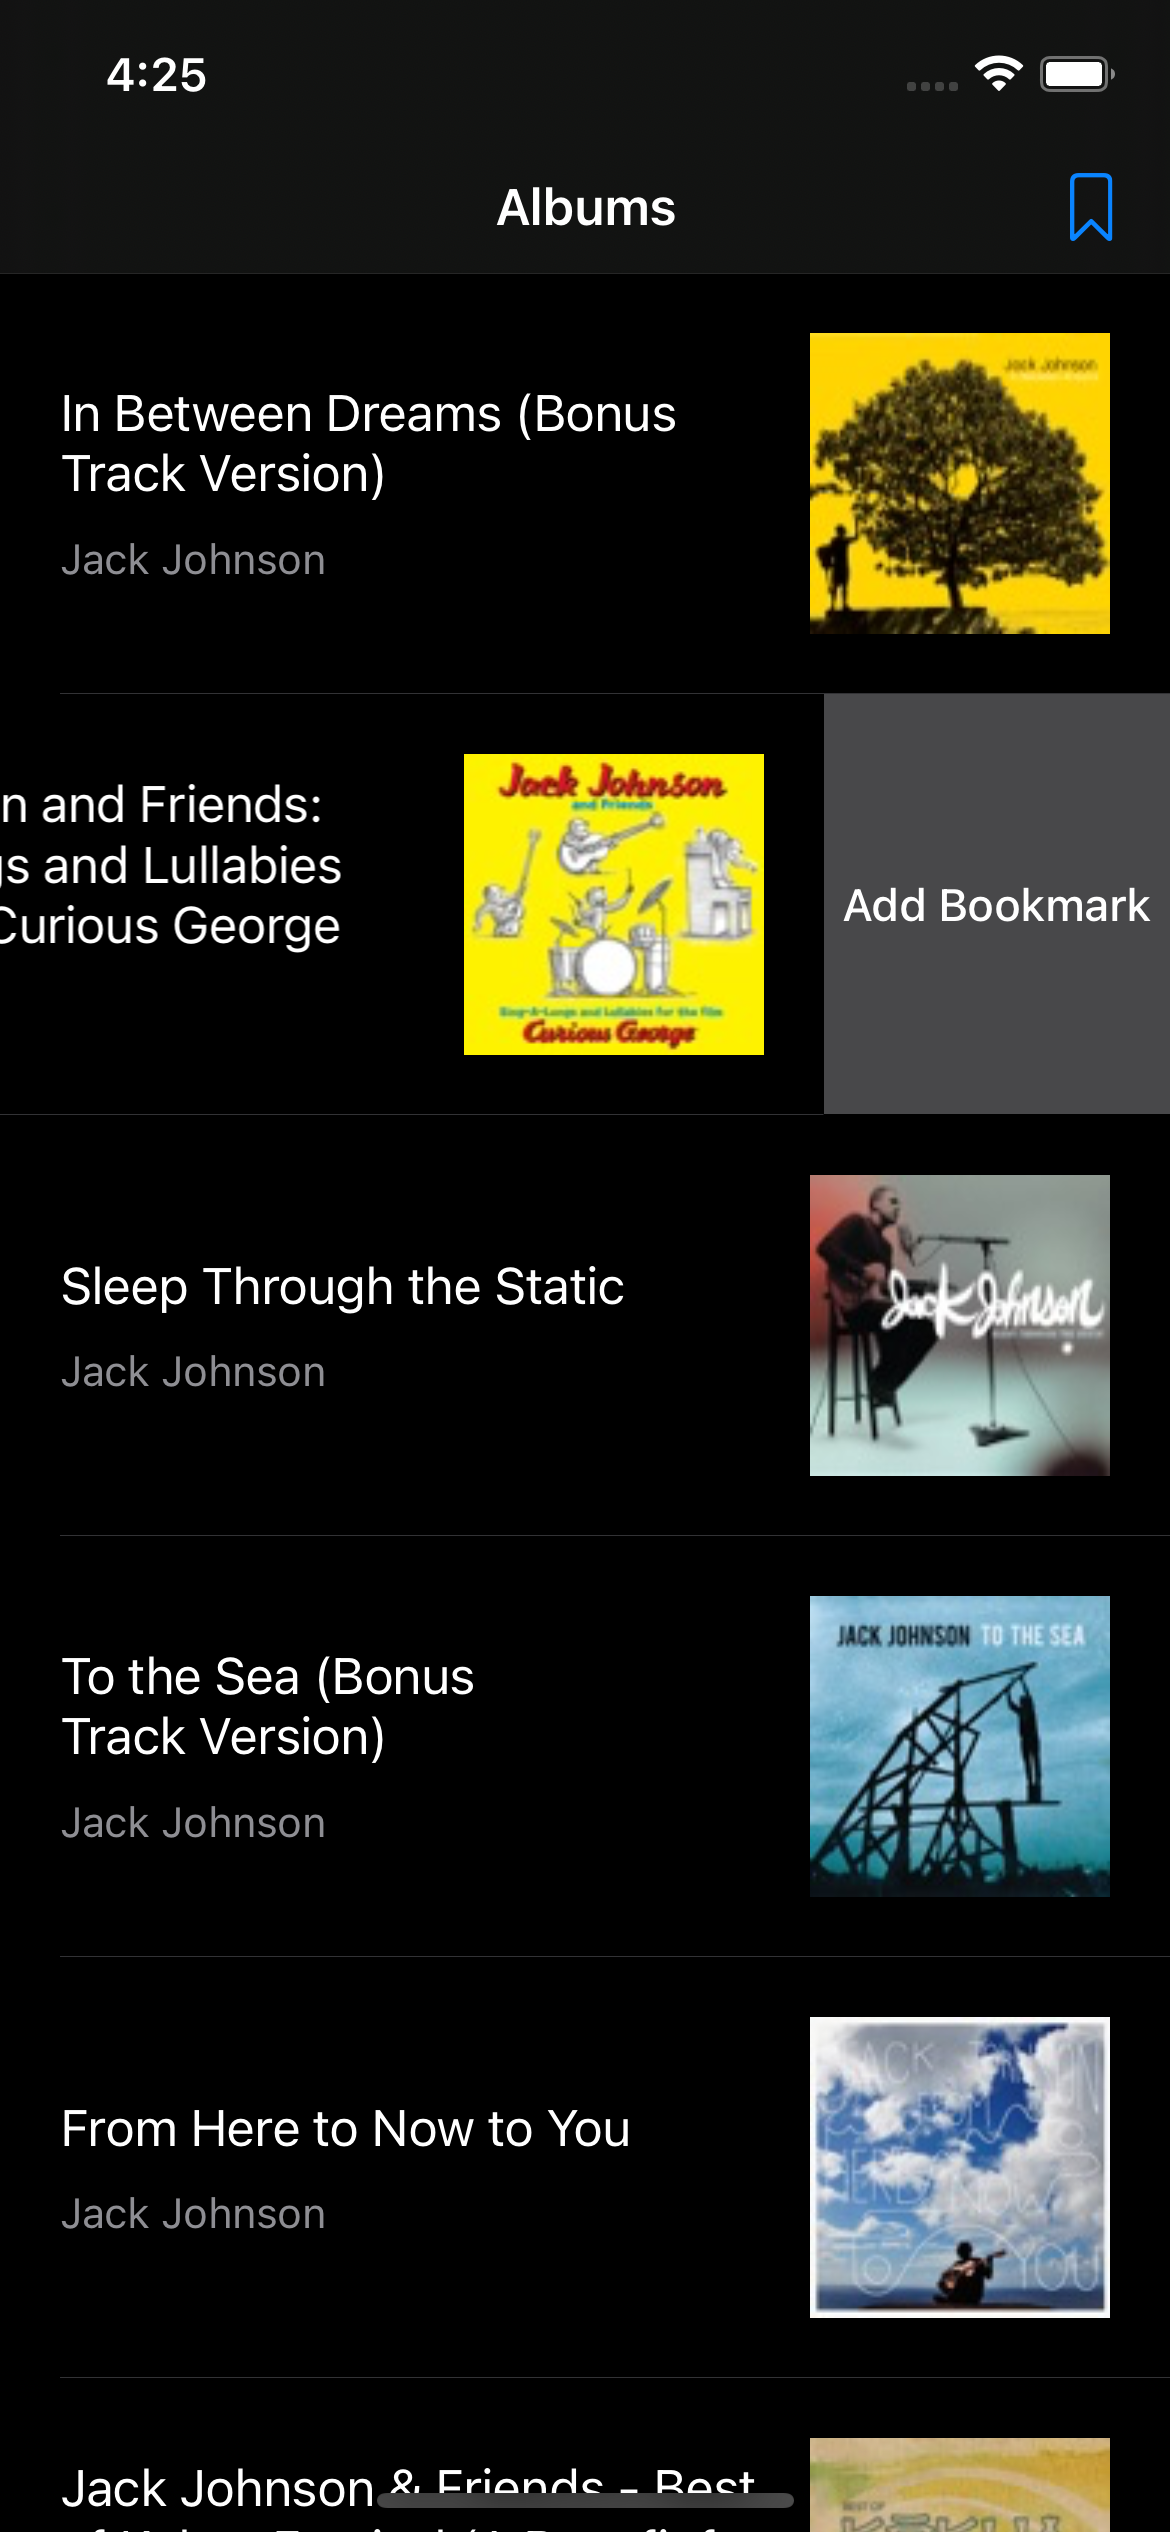
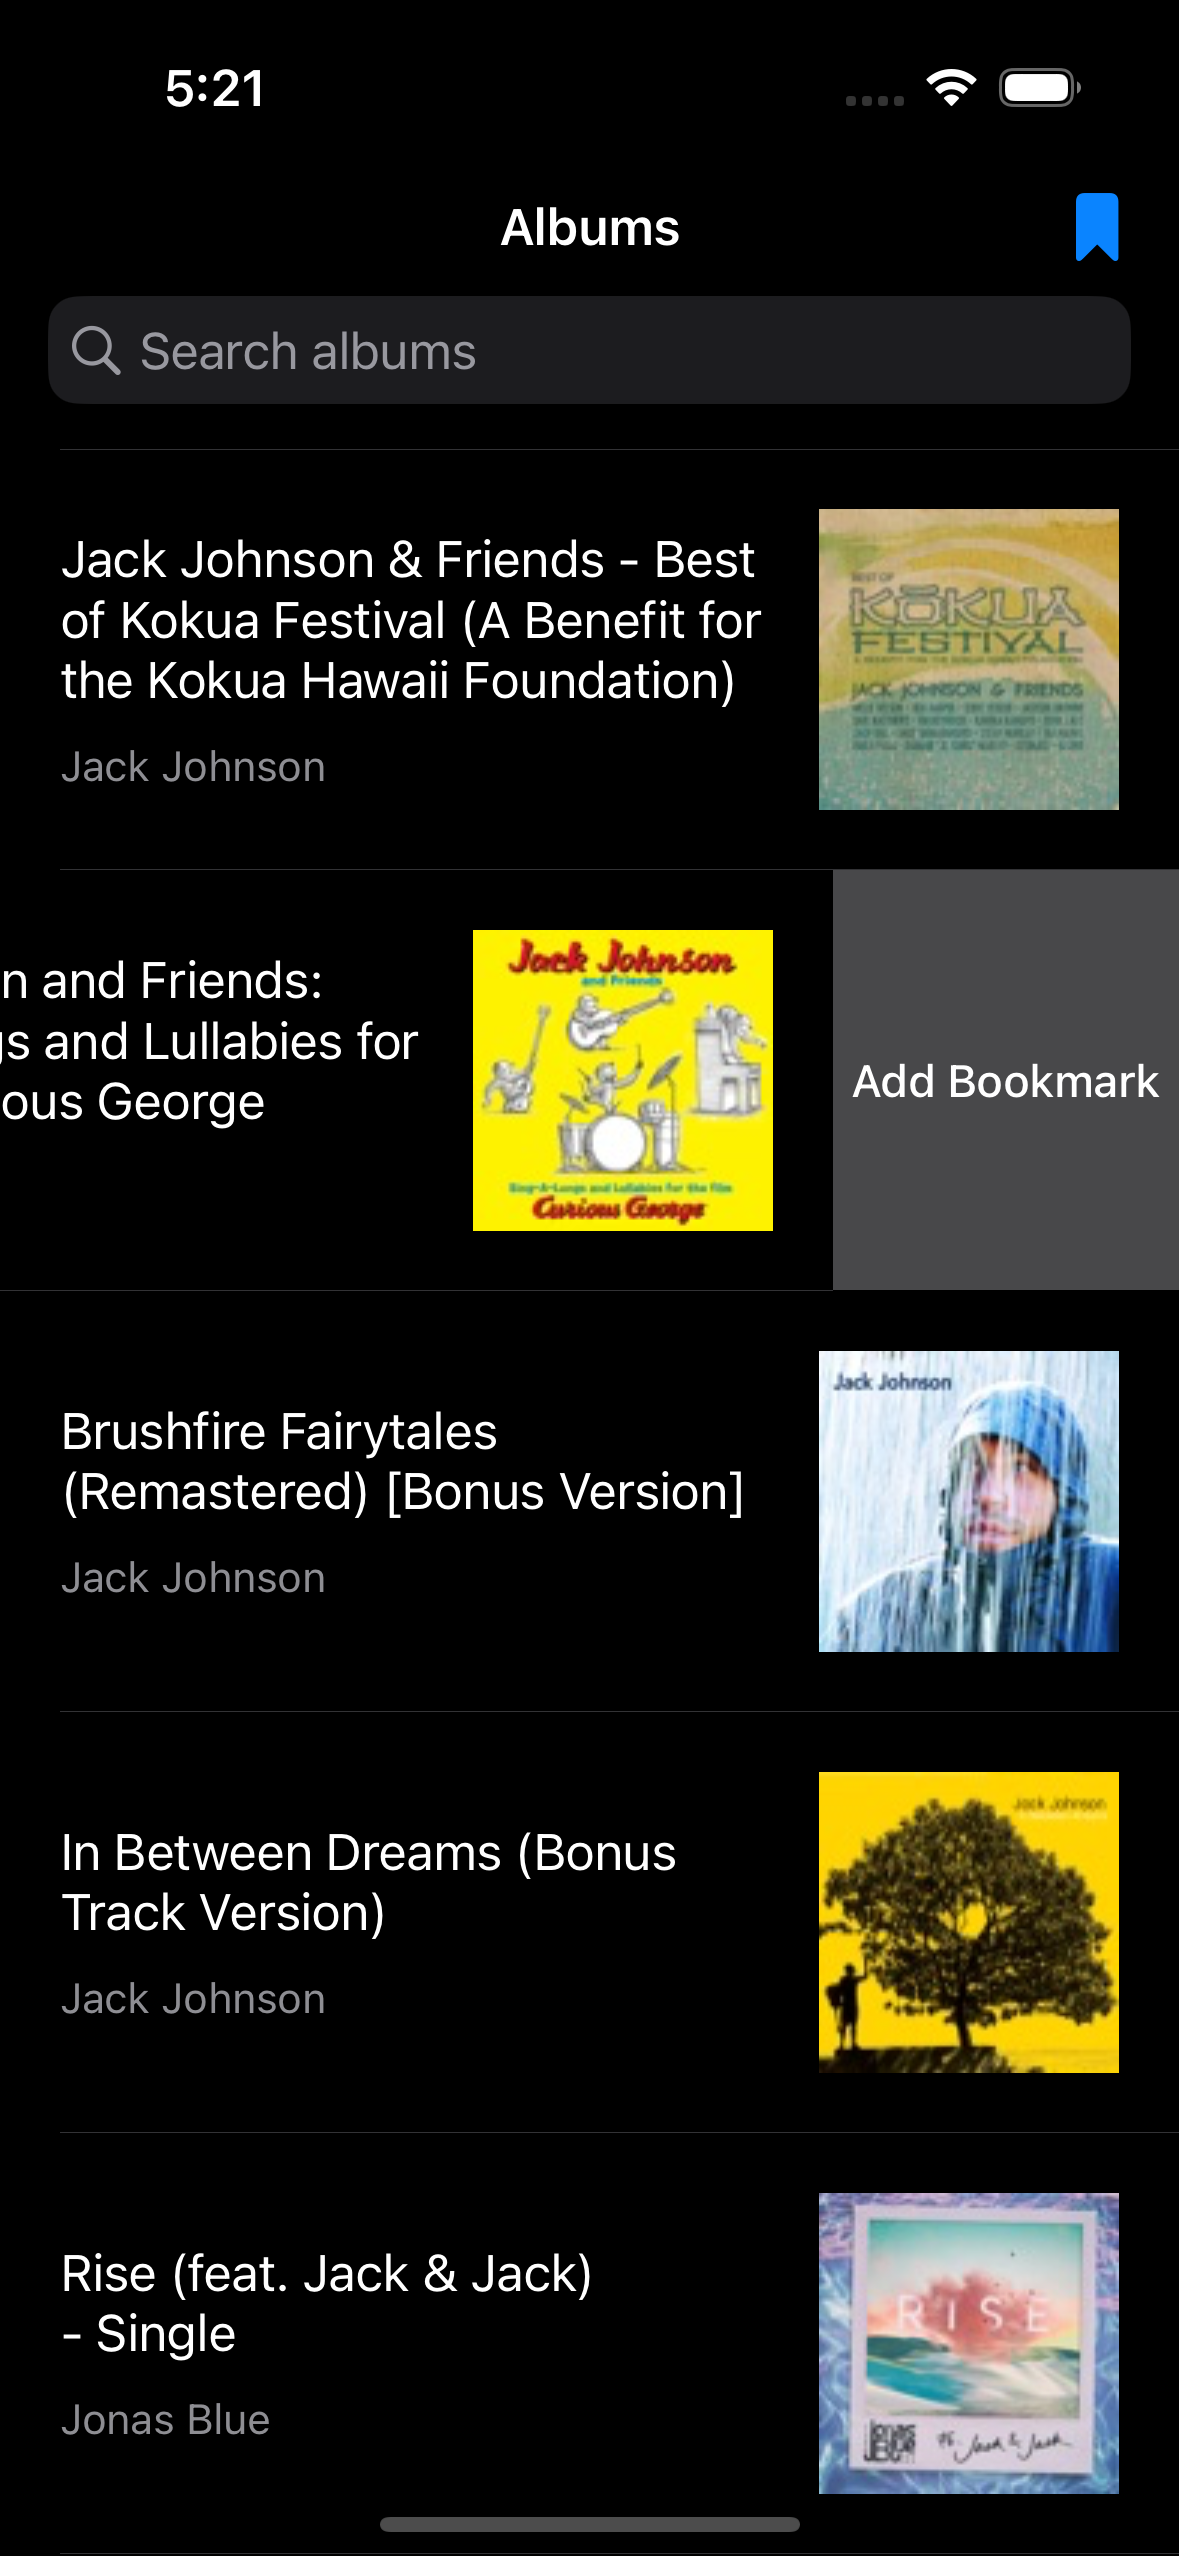
Update Readme and Screenshots

diff --git a/README.md b/README.md
@@ -3,14 +3,25 @@
 ## Features
 
 - [x] Album List
+- [x] API Search for Albums
 - [x] Album Detail
 - [x] Bookmark Album
+- [x] Local Search for Bookmarked Albums
+
+## Refactor
+
+- [x] Dependency Inject with Album Store Provider
+- [x] Data Loading State handling with Loadable Model
+- [x] Replace Closure with Combine
+- [x] API and Local Search for Albums supported
 
 ## Screenshots
 <p>
-<img src="https://github.com/samhk852/Albums-iOS/blob/main/Screenshots/albums.png" title="SDWebImage logo" width="117" height="253.2">
-<img src="https://github.com/samhk852/Albums-iOS/blob/main/Screenshots/add_bookmark.png" title="SDWebImage logo" width="117" height="253.2">
-<img src="https://github.com/samhk852/Albums-iOS/blob/main/Screenshots/remove_bookmark.png" title="SDWebImage logo" width="117" height="253.2">
-<img src="https://github.com/samhk852/Albums-iOS/blob/main/Screenshots/album_detail.png" title="SDWebImage logo" width="117" height="253.2">
-<img src="https://github.com/samhk852/Albums-iOS/blob/main/Screenshots/bookmarked_albums.png" title="SDWebImage logo" width="117" height="253.2">
+<img src="https://github.com/samhk852/Albums-iOS/blob/main/Screenshots/albums.png" title="SDWebImage logo" width="117" height="255">
+<img src="https://github.com/samhk852/Albums-iOS/blob/main/Screenshots/api_search.png" title="SDWebImage logo" width="117" height="255">
+<img src="https://github.com/samhk852/Albums-iOS/blob/main/Screenshots/not_found.png" title="SDWebImage logo" width="117" height="255">
+<img src="https://github.com/samhk852/Albums-iOS/blob/main/Screenshots/add_bookmark.png" title="SDWebImage logo" width="117" height="255">
+<img src="https://github.com/samhk852/Albums-iOS/blob/main/Screenshots/remove_bookmark.png" title="SDWebImage logo" width="117" height="255">
+<img src="https://github.com/samhk852/Albums-iOS/blob/main/Screenshots/album_detail.png" title="SDWebImage logo" width="117" height="255">
+<img src="https://github.com/samhk852/Albums-iOS/blob/main/Screenshots/bookmarked_albums.png" title="SDWebImage logo" width="117" height="255">
 </p>
